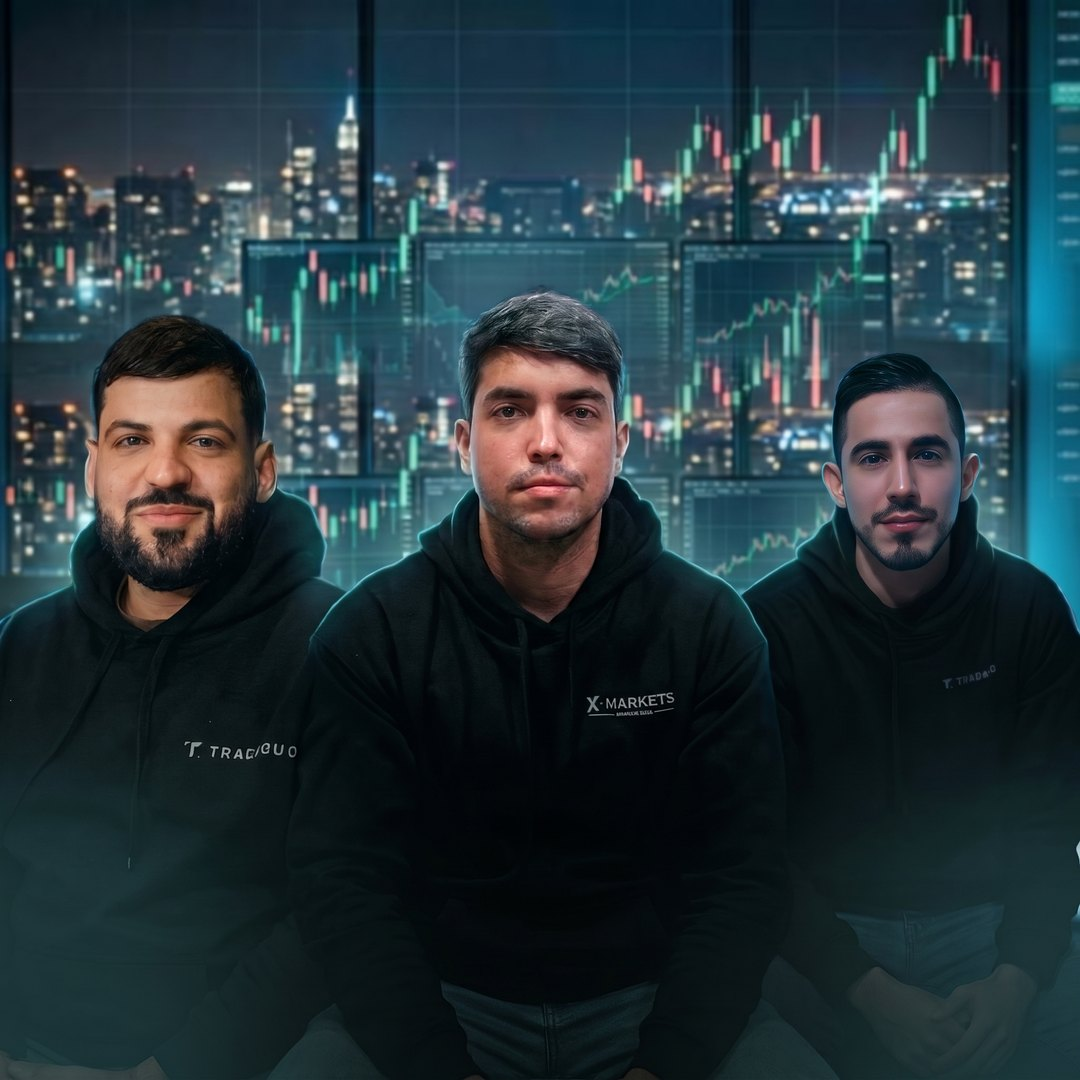
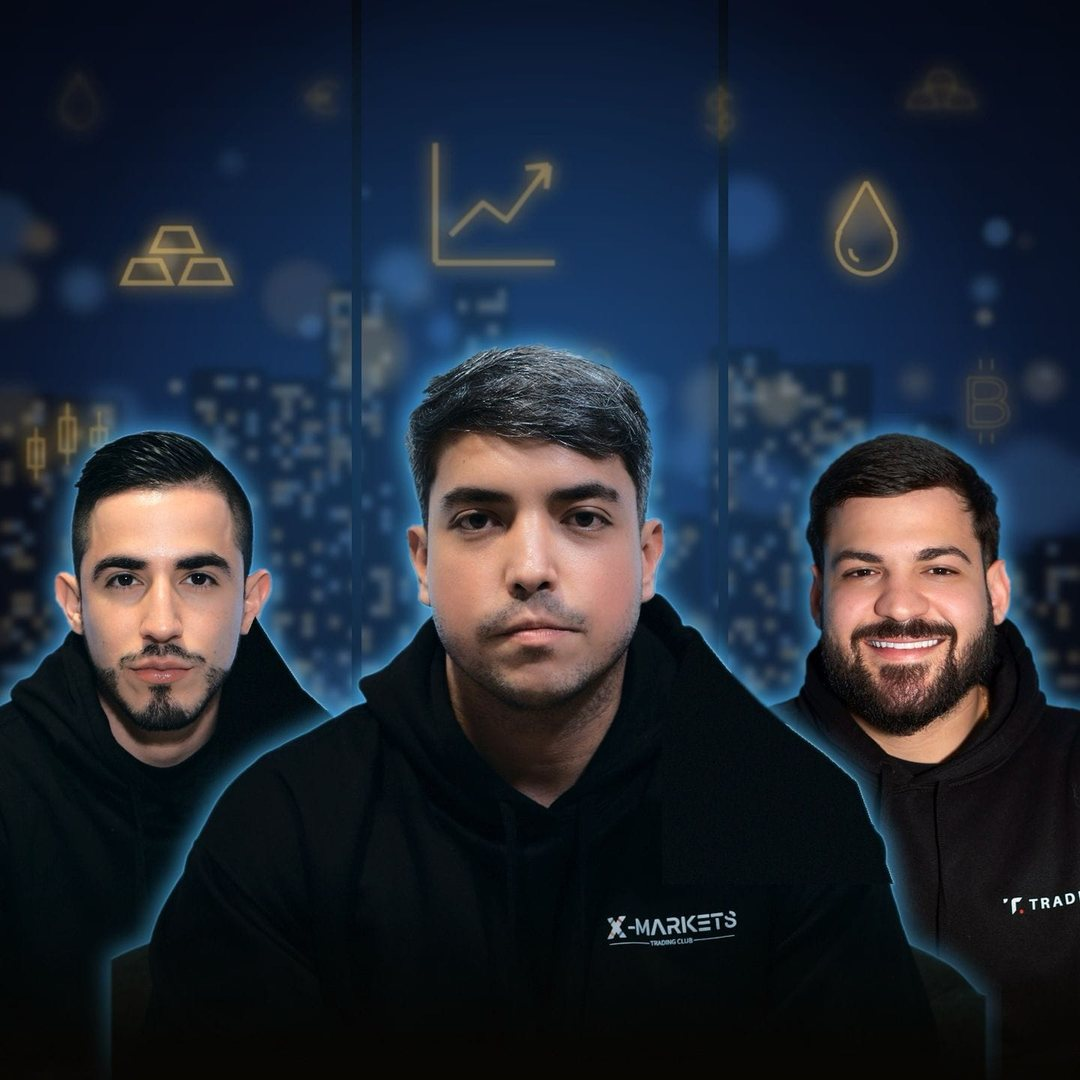
Videos: nueva portada de Quiénes somos y moneda de play bajo los rostros
Claude-Session: https://claude.ai/code/session_01YB8eUJDbRdRMoZpQx6pavS

diff --git a/videos.html b/videos.html
@@ -404,7 +404,7 @@
     @media (max-width: 1060px) { .bt-row span:not(.bi) { display: -webkit-box !important; -webkit-line-clamp: 2; -webkit-box-orient: vertical; overflow: hidden; } }
     @media (max-width: 960px) { .bt-row span:not(.bi) { display: block !important; -webkit-line-clamp: unset; } }
       /* Moneda de play: centrada y con la misma animación del video de Señales */
-    #vxMain .coin-play { inset: 64% auto auto 50% !important; width: 104px !important; height: 104px !important; margin: -52px 0 0 -52px !important; transform: none !important; translate: none !important; z-index: 3;
+    #vxMain .coin-play { inset: 80% auto auto 50% !important; width: 104px !important; height: 104px !important; margin: -52px 0 0 -52px !important; transform: none !important; translate: none !important; z-index: 3;
       box-shadow: none !important; animation: op-ring 2s ease-out infinite !important; transition: scale .3s cubic-bezier(.34,1.56,.64,1); }
     #vxMain .coin-play img { border-radius: 50%; background: radial-gradient(circle, #0b0b0f 62%, transparent 63%); filter: drop-shadow(0 12px 24px rgba(0,0,0,.5)) !important; transform: none; transition: none; }
     @media (prefers-reduced-motion: no-preference) { #vxMain .coin-play img { animation: coin-flip 6s cubic-bezier(.45,.05,.25,1) 1s infinite !important; } }
@@ -465,7 +465,7 @@
       <div class="bt-grid">
         <div class="bt bt-video">
           <div class="vx-player vx-own" id="vxMain">
-            <video id="vxVideo" src="media/quienes-somos.mp4" poster="media/quienes-somos-portada.jpg" preload="metadata" playsinline controlslist="nodownload noplaybackrate" disablepictureinpicture></video>
+            <video id="vxVideo" src="media/quienes-somos.mp4" poster="media/quienes-somos-portada.jpg?v=2" preload="metadata" playsinline controlslist="nodownload noplaybackrate" disablepictureinpicture></video>
             <button class="play coin-play" type="button" aria-label="Reproducir: Quiénes somos"><img src="logo-coin.png" alt="" width="96" height="96"></button>
             <span class="dur" id="vxMainDur">01:04</span>
           </div>
